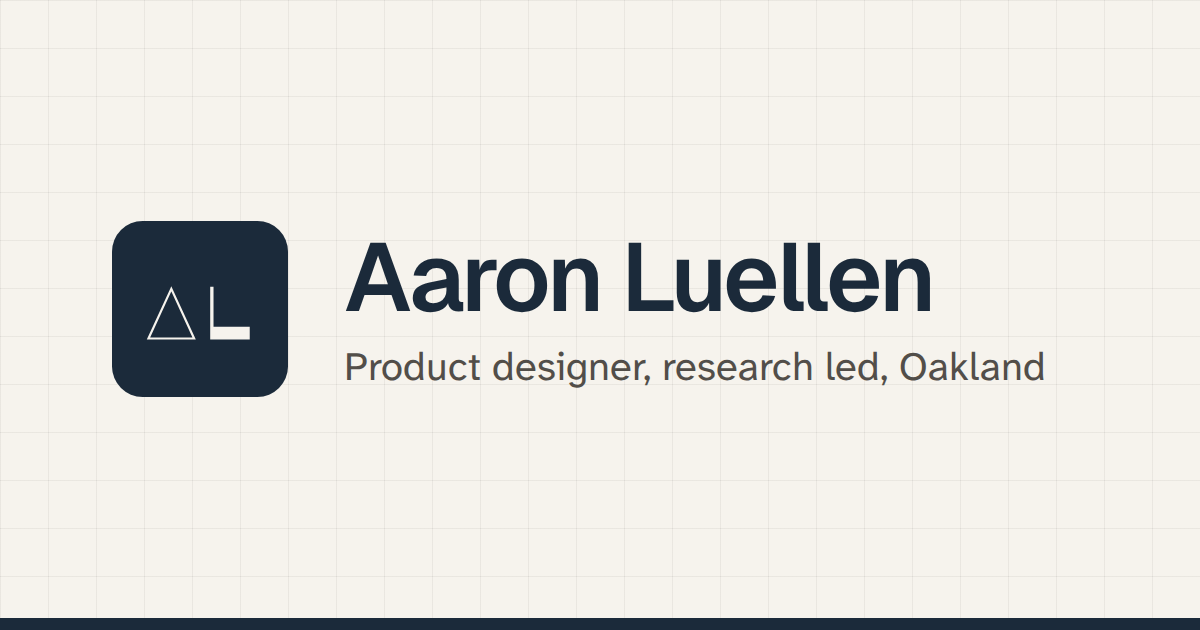
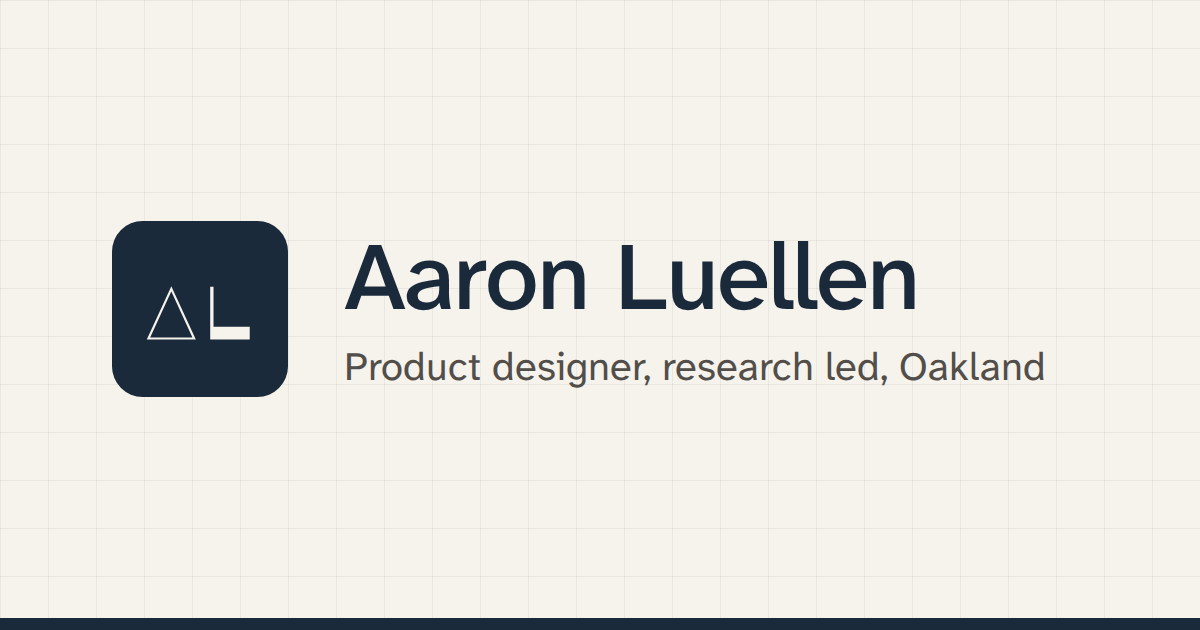
One voice type, Micah style header, hero subtext, one line KRON4 caption, About sticky portrait fix
Claude-Session: https://claude.ai/code/session_01UajVehgWQjKjEREoAyopuB

Changed region(s): [[0.2775, 0.3619, 0.8017, 0.5127]]

diff --git a/src/data/about.ts b/src/data/about.ts
@@ -1,3 +1,5 @@
+import { site } from "../site.config";
+
 // About page tables (Micah Hoang's pattern: mono labels over thin rules).
 // Only facts Aaron has confirmed go here. A missing field is left undefined: review previews show
 // a "To add" placeholder in its place, and the live site leaves it out.
@@ -10,6 +12,8 @@ export interface AboutRow {
   /** When: a year or a range. */
   when?: string;
   href?: string;
+  /** One or two sentences under the row. */
+  note?: string;
 }
 
 export interface AboutQuote {
@@ -20,7 +24,11 @@ export interface AboutQuote {
 
 export const experience: AboutRow[] = [
   // Role title as shown on KRON4's name bar. Years to add.
-  { place: "BRIDGEGOOD", what: "UX Design Apprentice" },
+  {
+    place: "BRIDGEGOOD",
+    what: "UX Design Apprentice",
+    note: "Launched by Google.org and the Golden State Warriors, with mentors from Google, Meta, and YouTube. The team built AthenaScribe, a translation tool with human review for Oakland Unified families, and presented it at Demo Day at Block HQ.",
+  },
   // Klima and Craft Education ran in 2025. Program name to add.
   { place: "General Assembly", when: "2025" },
   // From Aaron's About text: "I ran the fight team." Gym name and years to add.
@@ -28,7 +36,12 @@ export const experience: AboutRow[] = [
 ];
 
 export const press: AboutRow[] = [
-  { place: "KRON4", what: "Purpose to Pixels: BRIDGEGOOD on KRON4" },
+  {
+    place: "KRON4",
+    what: "Purpose to Pixels: BRIDGEGOOD on KRON4",
+    href: site.kron4Video,
+    note: "Live with BRIDGEGOOD’s executive director, talking about open communication between Oakland families and their schools, and why design for social good matters.",
+  },
 ];
 
 export const education: AboutRow[] = [{}];

diff --git a/src/styles/tokens.css b/src/styles/tokens.css
@@ -53,10 +53,10 @@
   --color-dark-panel-edge: transparent;
 
   /* Type families (open fonts, self hosted via Fontsource).
-     Body, buttons, and menu: Atkinson Hyperlegible Next, built for legibility. Headings: Geist.
-     Labels and metadata: Atkinson Hyperlegible Mono, the mono sibling of the body font. */
+     One voice: Atkinson Hyperlegible Next for headings, body, buttons, and menu, built for legibility.
+     Size sets the order, not a second family. Labels and metadata: Atkinson Hyperlegible Mono. */
   --font-text: "Atkinson Hyperlegible Next Variable", "Atkinson Hyperlegible Next", system-ui, -apple-system, "Segoe UI", sans-serif;
-  --font-display: "Geist Variable", "Geist", system-ui, -apple-system, "Segoe UI", sans-serif;
+  --font-display: var(--font-text);
   --font-mono: "Atkinson Hyperlegible Mono Variable", "Atkinson Hyperlegible Mono", ui-monospace, "SFMono-Regular", Menlo, Consolas, monospace;
 
   /* Type scale (fluid, roughly 1.25 ratio) */
@@ -73,13 +73,13 @@
   --weight-regular: 400;
   --weight-medium: 500;
   --weight-semibold: 600;
-  --weight-heading: 600;
+  --weight-heading: 500; /* one voice: headings only a step heavier than body */
 
   /* Leading and tracking */
   --leading-tight: 1.12;
   --leading-snug: 1.3;
   --leading-body: 1.65;
-  --tracking-tight: -0.035em;
+  --tracking-tight: -0.02em;
   --tracking-label: 0.03em; /* mono labels need less spacing than sans caps */
   --tracking-button: -0.01em;
 

diff --git a/design/share/og-image.html b/design/share/og-image.html
@@ -4,7 +4,7 @@
 <head>
 <meta charset="utf-8">
 <style>
-  @font-face { font-family: "Geist Variable"; src: url("../../node_modules/@fontsource-variable/geist/files/geist-latin-wght-normal.woff2") format("woff2"); font-weight: 100 900; }
+  
   @font-face { font-family: "Atkinson Hyperlegible Next Variable"; src: url("../../node_modules/@fontsource-variable/atkinson-hyperlegible-next/files/atkinson-hyperlegible-next-latin-wght-normal.woff2") format("woff2"); font-weight: 200 800; }
   html, body { margin: 0; }
   body {
@@ -16,7 +16,7 @@
     border-bottom: 12px solid #1b2a3a;
   }
   .logo { width: 176px; height: 176px; flex: none; }
-  h1 { margin: 0; font: 600 96px/1.05 "Geist Variable", sans-serif; letter-spacing: -0.035em; }
+  h1 { margin: 0; font: 500 96px/1.05 "Atkinson Hyperlegible Next Variable", sans-serif; letter-spacing: -0.02em; }
   p { margin: 16px 0 0; font: 400 40px/1.2 "Atkinson Hyperlegible Next Variable", sans-serif; color: #524e49; }
 </style>
 </head>

diff --git a/design/DESIGN.md b/design/DESIGN.md
@@ -7,7 +7,7 @@ Current direction from October 9, 2026: warm graph paper, deep navy ink, blue fo
 Calm and exact. The work and the photos carry the color. Everything around them stays quiet.
 
 - Warm paper page with faint graph lines (Zeel). Deep navy for headings, primary buttons, the logo, and the closing block (Micah). The AL blue is for links only.
-- Headings: Geist (`--font-display`), semibold, tight tracking. Body, buttons, and the menu: Atkinson Hyperlegible Next (`--font-text`), for legibility. Labels and metadata: Atkinson Hyperlegible Mono (`--font-mono`), small caps style uppercase.
+- One voice: Atkinson Hyperlegible Next for headings, body, buttons, and the menu (`--font-text`; `--font-display` points to it). Headings at 500 with slight negative tracking; size sets the order. Labels, metadata, the header, and the menu: Atkinson Hyperlegible Mono (`--font-mono`), uppercase.
 - Square corners on everything: panels, cards, photos, video, buttons. Only round icon buttons (theme toggle, play) stay circles. No pill shapes anywhere.
 - Sentence case for every heading. Proper names keep their capitals (BRIDGEGOOD UX Design Apprenticeship, Purpose to Pixels).
 - No drop shadows and no gradients. Thin rules separate content.
@@ -17,14 +17,15 @@ Calm and exact. The work and the photos carry the color. Everything around them 
 
 Order: name, Selected work, BRIDGEGOOD and KRON4, About, closing. Every section after the name opens with a thin rule.
 
-- Name: "Aaron Luellen" at `--step-6`, the largest text on the site, then one line in Geist, muted: "Product designer, research led, Oakland". No photo and no buttons; the menu has Work and About, and the work starts right below.
-- BRIDGEGOOD and KRON4: on the paper, no panel. Two text columns from 64rem, then the KRON4 clip below at the full content width (`--size-clip`). The loop is 4 seconds from Aaron's screen recording of the YouTube segment: all three guests and his name bar.
+- Header (Micah Hoang): AL logo, "Product designer" and "Bay Area, CA" in mono across the middle (hidden on phones), Work and About in mono, theme toggle.
+- Name: "Aaron Luellen" at `--step-6`, the largest text on the site, then "Research led product designer." in navy, then a mono meta line "2 years · EdTech · Health · Climate", then a mono links row: LinkedIn, Resume, Email (plain text until linked). No photo and no buttons.
+- KRON4: the clip at the full content width (`--size-clip`), opening on scroll, then one mono caption line: On air with KRON4, BRIDGEGOOD UX Design Apprenticeship (link), Watch on YouTube. No headings or paragraph; the BRIDGEGOOD details live on the About page.
 - About (`#about`), short, Micah Hoang's pattern: label, heading, the intro paragraph, and a mono "Read more about me" link to the About page. No photo.
 - The closing banner with the BRIDGEGOOD group photo at Google stays right under the short About until Aaron says otherwise.
 
 ## About page (`/about/`)
 
-- "Hey, I'm Aaron." then the intro and the coaching story. The portrait (4:5) sits on the left from 64rem and stays in view while the text scrolls.
+- "Hey, I'm Aaron." then the intro and the coaching story. The portrait (4:5) sits on the left from 64rem, stays in view while the text scrolls, and stops at the end of the text block, before the gym photos.
 - Mono tables over thin rules (`src/data/about.ts`): Experience, Press, Education, What people say. Each row: where, what, when. Only confirmed facts go in. Missing fields show as dashed "To add" notes in review previews; the live site leaves them out, and drops a table or the quotes section until it has content.
 - Then the three gym photos, tall, wide, tall at equal heights (wide one on top on phones).
 - The header's About link opens this page and is marked current there. Below, one row of gym photos at equal heights: tall, wide, tall (`--about-row`). On phones the wide one goes on top and the two tall ones sit below.
@@ -61,7 +62,7 @@ Wrap navy panels in `.surface-always-dark`. It remaps ink, headings, muted ink, 
 
 ## Type
 
-- Headlines: `--font-display` (Geist), `--weight-heading` (600), `--tracking-tight` (-0.035em), tight leading, balanced wrapping, navy (`--color-heading`).
+- Headlines: `--font-display` (Atkinson Hyperlegible Next, one voice), `--weight-heading` (500), `--tracking-tight` (-0.02em), tight leading, balanced wrapping, navy (`--color-heading`).
 - Body: `--font-text` at `--step-0`, leading `--leading-body`.
 - Labels and metadata: `--font-mono` at `--step--1`, uppercase, `--tracking-label` (0.03em), muted.
 
@@ -121,7 +122,7 @@ Wrap navy panels in `.surface-always-dark`. It remaps ink, headings, muted ink, 
 
 ## Link preview
 
-- `public/og-image.png` (1200 by 630): the navy AL logo, "Aaron Luellen" in Geist, and "Product designer, research led, Oakland" on the graph paper, with a navy bar at the bottom. The source is `design/share/og-image.html`. Regenerate with `node scripts/make-og-image.cjs`.
+- `public/og-image.png` (1200 by 630): the navy AL logo, "Aaron Luellen" in Atkinson Hyperlegible Next, and "Product designer, research led, Oakland" on the graph paper, with a navy bar at the bottom. The source is `design/share/og-image.html`. Regenerate with `node scripts/make-og-image.cjs`.
 - Open Graph and Twitter tags live in `BaseLayout.astro`. They need `site` set in `astro.config.mjs` to output absolute URLs.
 
 ## Motion

diff --git a/design/CHANGELOG.md b/design/CHANGELOG.md
@@ -10,6 +10,18 @@ Newest first. Every design or structure decision goes here.
 
 
 
+
+## 2026-10-09 · One voice type, Micah header, hero subtext, one line KRON4
+
+Aaron's answers: "One voice, mono labels kept"; the header with the AL logo then the text; the KRON4 section as the clip plus one caption line. Meta line from his facts: design since 2024 (2 years), spaces EdTech (AthenaScribe), Health (Craft Education, a therapy service), Climate (Klima).
+
+- Type: One voice. Atkinson Hyperlegible Next for headings and body, headings at 500 with -0.02em tracking; size sets the order. Mono labels stay (Atkinson Hyperlegible Mono). Geist removed; the mono font is preloaded instead. Share image redone in Atkinson.
+- Header (Micah Hoang): AL logo, then "Product designer" and "Bay Area, CA" spread across the middle in mono, then Work and About in mono, then the theme toggle. The middle text hides on phones.
+- Hero: "Aaron Luellen", then "Research led product designer.", then the mono meta line "2 years · EdTech · Health · Climate" (Zeel Shah), then a mono links row: LinkedIn, Resume, Email (Micah). LinkedIn and Resume show as plain text until the URL and the PDF exist; Email is live.
+- KRON4: headings, paragraph, and button removed. The clip opens on scroll, then one mono caption line: "On air with KRON4", "BRIDGEGOOD UX Design Apprenticeship" (link), "Watch on YouTube". It leads straight into the short About.
+- About page: the BRIDGEGOOD details (Google.org, the Warriors, mentors, AthenaScribe, Block HQ) and the KRON4 description moved into notes under their rows. The KRON4 row links to the segment.
+- About page fix: the sticky portrait now stops at the end of the text block ("What people say") instead of sliding over the gym photos. Portrait and text share one block; the gallery sits outside it.
+
 ## 2026-10-09 · About page, Micah style
 
 Aaron sent a screen recording of Micah Hoang's site: a short About on the home page that opens a full About page.
